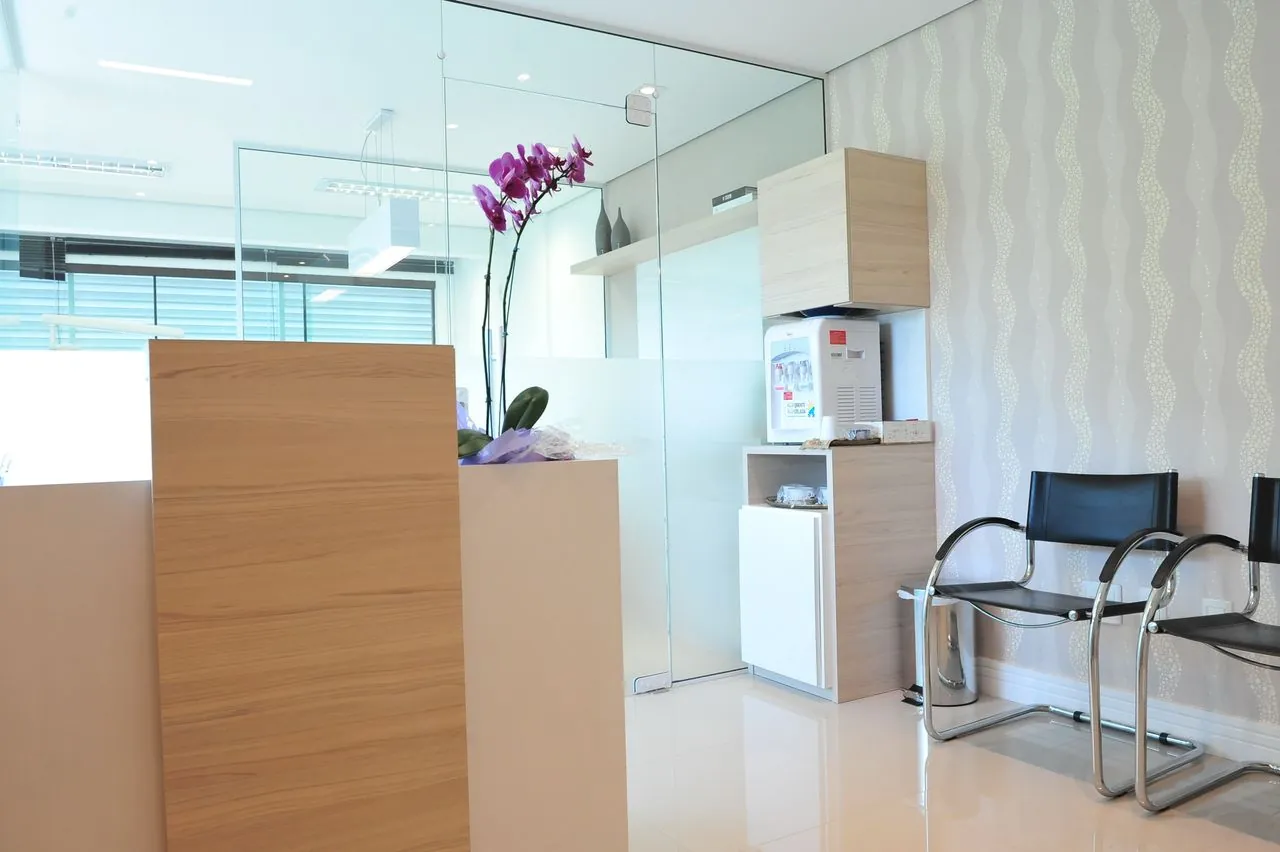
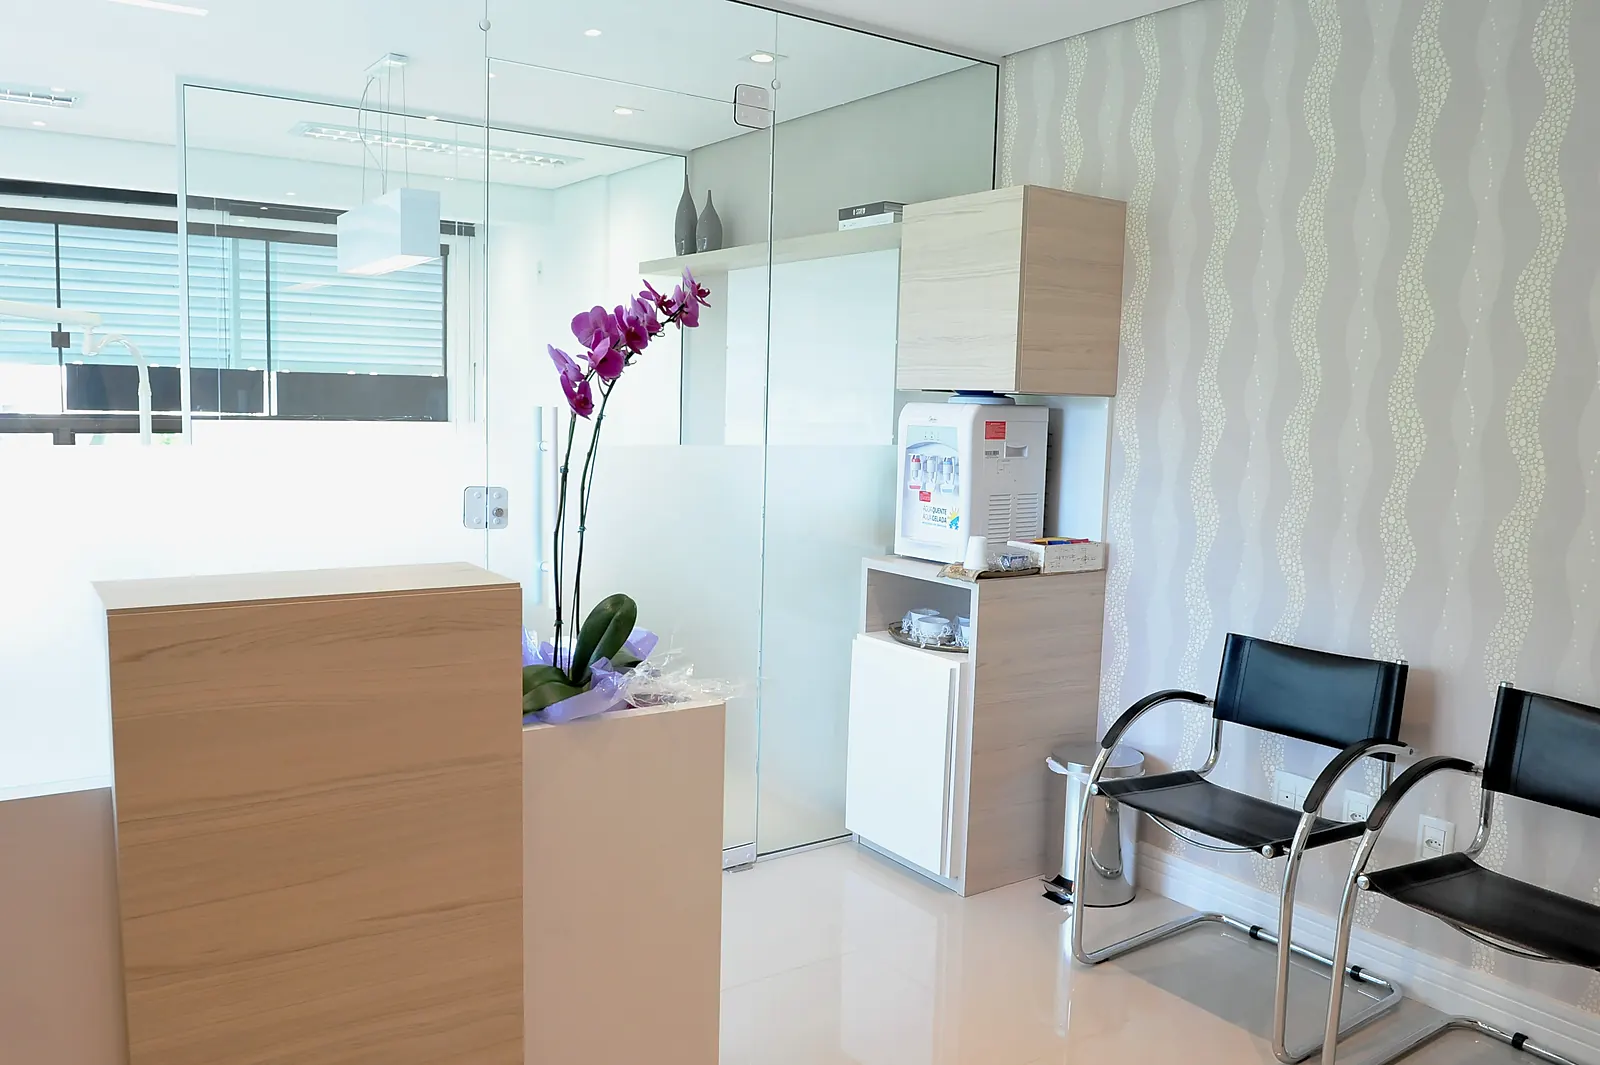
Fotos novas do consultório: seleção por nitidez, tratamento de tons e compressão WebP

diff --git a/index.html b/index.html
@@ -308,11 +308,11 @@ Recomendo totalmente!</blockquote><figcaption><span><b>Leandro Vieira</b> · 202
         <p class="lead" data-reveal style="--i:2">Ambiente silencioso, equipamentos atualizados e horário marcado com pontualidade, como os próprios pacientes destacam nas avaliações.</p>
       </div>
       <div class="galeria">
-        <figure data-reveal><img src="assets/img/consultorio-sala-1.webp" alt="Sala de atendimento com cadeira odontológica e janela ampla" width="1500" height="996" loading="lazy"><figcaption>Sala de atendimento</figcaption></figure>
-        <figure data-reveal style="--i:1"><img src="assets/img/consultorio-recepcao.webp" alt="Recepção com balcão de madeira clara e orquídea" width="1280" height="852" loading="lazy"><figcaption>Recepção</figcaption></figure>
-        <figure data-reveal style="--i:2"><img src="assets/img/consultorio-sala-2.webp" alt="Sala de atendimento com divisórias de vidro" width="1500" height="996" loading="lazy"><figcaption>Atendimento</figcaption></figure>
-        <figure data-reveal style="--i:3"><img src="assets/img/consultorio-escritorio.webp" alt="Sala de conversa e planejamento do tratamento" width="1500" height="1000" loading="lazy"><figcaption>Planejamento</figcaption></figure>
-        <figure data-reveal style="--i:4"><img src="assets/img/consultorio-sala-3.webp" alt="Vista geral do consultório" width="1500" height="1000" loading="lazy"><figcaption>Consultório</figcaption></figure>
+        <figure data-reveal><img src="assets/img/consultorio-sala-1.webp?v=2" alt="Sala de atendimento com cadeira odontológica, divisórias de vidro e janela para o verde" width="1600" height="1065" loading="lazy"><figcaption>Sala de atendimento</figcaption></figure>
+        <figure data-reveal style="--i:1"><img src="assets/img/consultorio-recepcao.webp?v=2" alt="Recepção com balcão de madeira clara, orquídea e cadeiras de espera" width="1600" height="1065" loading="lazy"><figcaption>Recepção</figcaption></figure>
+        <figure data-reveal style="--i:2"><img src="assets/img/consultorio-sala-2.webp?v=2" alt="Cadeira odontológica em frente à janela ampla" width="1600" height="1195" loading="lazy"><figcaption>Atendimento</figcaption></figure>
+        <figure data-reveal style="--i:3"><img src="assets/img/consultorio-escritorio.webp?v=2" alt="Sala de planejamento do tratamento, com vista para a sala de atendimento" width="1600" height="1065" loading="lazy"><figcaption>Planejamento</figcaption></figure>
+        <figure data-reveal style="--i:4"><img src="assets/img/consultorio-sala-3.webp?v=2" alt="Vista geral do consultório, da cadeira até a sala de planejamento" width="1600" height="1034" loading="lazy"><figcaption>Consultório</figcaption></figure>
         <div class="galeria__info" data-reveal style="--i:5">
           <div><strong>Rod. João Paulo, 695, sala 203</strong><p>João Paulo, Florianópolis/SC<br>Segunda a sexta, das 9h às 19h</p></div>
           <a class="link" href="https://www.google.com/maps?cid=12900152698628435875" target="_blank" rel="noopener">Como chegar<svg aria-hidden="true"><use href="assets/icons.svg#seta"/></svg></a>

diff --git a/contato.html b/contato.html
@@ -11,7 +11,7 @@
 <meta property="og:locale" content="pt_BR">
 <meta property="og:title" content="Contato e agendamento | Dra. Anita Nogiri">
 <meta property="og:description" content="WhatsApp, telefone, endereço e horários do consultório no João Paulo, Florianópolis.">
-<meta property="og:image" content="https://anitaodontologia.com.br/assets/img/consultorio-recepcao.webp">
+<meta property="og:image" content="https://anitaodontologia.com.br/assets/img/consultorio-recepcao.webp?v=2">
 <meta name="theme-color" content="#00565d">
 <link rel="icon" href="favicon.png" type="image/png">
 <link rel="preconnect" href="https://fonts.googleapis.com">
@@ -27,7 +27,7 @@
       {"@type":"ListItem","position":1,"name":"Início","item":"https://anitaodontologia.com.br/"},
       {"@type":"ListItem","position":2,"name":"Contato","item":"https://anitaodontologia.com.br/contato.html"}]},
     {"@type":"ContactPage","url":"https://anitaodontologia.com.br/contato.html","about":{"@id":"https://anitaodontologia.com.br/#consultorio"}},
-    {"@type":"Dentist","@id":"https://anitaodontologia.com.br/#consultorio","name":"Dra. Anita Nogiri Makowiecky · Odontologia Integrada","url":"https://anitaodontologia.com.br/","image":"https://anitaodontologia.com.br/assets/img/consultorio-recepcao.webp","telephone":"+55-48-3030-0038","email":"anita@anitaodontologia.com.br",
+    {"@type":"Dentist","@id":"https://anitaodontologia.com.br/#consultorio","name":"Dra. Anita Nogiri Makowiecky · Odontologia Integrada","url":"https://anitaodontologia.com.br/","image":"https://anitaodontologia.com.br/assets/img/consultorio-recepcao.webp?v=2","telephone":"+55-48-3030-0038","email":"anita@anitaodontologia.com.br",
      "address":{"@type":"PostalAddress","streetAddress":"Rodovia João Paulo, 695, sala 203","addressLocality":"Florianópolis","addressRegion":"SC","postalCode":"88030-300","addressCountry":"BR"},
      "geo":{"@type":"GeoCoordinates","latitude":-27.5665829,"longitude":-48.5158609},
      "hasMap":"https://www.google.com/maps?cid=12900152698628435875",

diff --git a/tools/imagens/tratar_consultorio.py b/tools/imagens/tratar_consultorio.py
@@ -1,0 +1,67 @@
+"""Trata e comprime as fotos do consultório para o site.
+
+Passos: orientação EXIF, recorte das bordas (onde a grande-angular mais estica),
+recuperação dos altos quase estourados, leve contraste nos médios, menos ciano nos
+vidros, redimensionamento, nitidez e WebP comprimido.
+
+Uso: python -I tools/imagens/tratar_consultorio.py <pasta_origem> <pasta_destino>
+O mapa FOTOS liga o arquivo original ao nome usado no site.
+"""
+import pathlib
+import sys
+
+import cv2
+import numpy as np
+from PIL import Image, ImageFilter, ImageOps
+
+FOTOS = {
+    "112": "consultorio-sala-1",
+    "103": "consultorio-recepcao",
+    "131": "consultorio-sala-2",
+    "144": "consultorio-escritorio",
+    "141": "consultorio-sala-3",
+    "105": "consultorio-recepcao-2",
+}
+LADO = 1600       # lado maior exportado
+CORTE = 0.05      # fração recortada de cada borda
+QUALIDADE = 78
+
+
+def curva():
+    """Curva de tons: segura os altos (sem estourar) e dá um contraste suave nos médios."""
+    x = np.arange(256, dtype=np.float32) / 255
+    s = x + 0.06 * np.sin(2 * np.pi * x) * (1 - x) * 1.6     # contraste em S suave
+    s = np.where(s > 0.82, 0.82 + (s - 0.82) * 0.82, s)       # comprime os altos
+    return np.clip(s * 255, 0, 255).astype(np.uint8)
+
+
+def menos_ciano(rgb):
+    hsv = cv2.cvtColor(rgb, cv2.COLOR_RGB2HSV).astype(np.float32)
+    h = hsv[..., 0]                                  # OpenCV: matiz 0..180
+    peso = np.clip(1 - np.abs(h - 92) / 18, 0, 1)    # ciano/turquesa em torno de 92
+    hsv[..., 1] *= 1 - 0.35 * peso
+    return cv2.cvtColor(hsv.astype(np.uint8), cv2.COLOR_HSV2RGB)
+
+
+def tratar(origem, destino):
+    im = ImageOps.exif_transpose(Image.open(origem)).convert("RGB")
+    w, h = im.size
+    im = im.crop((int(w * CORTE), int(h * CORTE), int(w * (1 - CORTE)), int(h * (1 - CORTE))))
+    im.thumbnail((LADO, LADO), Image.LANCZOS)
+    arr = np.array(im)
+    arr = cv2.LUT(arr, curva())
+    arr = menos_ciano(arr)
+    im = Image.fromarray(arr).filter(ImageFilter.UnsharpMask(radius=1.2, percent=55, threshold=2))
+    im.save(destino, "WEBP", quality=QUALIDADE, method=6)
+    return im.size, destino.stat().st_size
+
+
+def main():
+    org, dst = pathlib.Path(sys.argv[1]), pathlib.Path(sys.argv[2])
+    for k, nome in FOTOS.items():
+        tam, peso = tratar(org / f"{k}.jpg", dst / f"{nome}.webp")
+        print(f"{k} -> {nome}.webp  {tam[0]}x{tam[1]}  {peso // 1024} KB")
+
+
+if __name__ == "__main__":
+    main()

diff --git a/CLAUDE.md b/CLAUDE.md
@@ -43,6 +43,7 @@ Projeto da Freela In Home. Responder sempre em pt-BR.
 - Blog: posts em `conteudo/blog/posts.json` + `conteudo/blog/<slug>.html` → `python tools/blog.py` (gera blog.html, posts, sitemap.xml e roda partials). Capas IA: `python -I tools/imagens/gerar.py <saida.webp> <w> <h> "<prompt>"` (Gemini, com crédito desde 05/11)
 - REGRA Google Ads saúde (igual ao site do Dr. Márcio): as palavras "antes" e "depois" são PROIBIDAS em todo o conteúdo publicado (texto, títulos, alt, aria, meta, JSON-LD, comentários, classes, nomes de arquivo), inclusive em uso temporal. Usar "primeiro", "em seguida", "ao final", "prévio". Casos: "registro fotográfico 1/2", "comparar os dois registros"
 - Casos reais (16/11): `assets/img/casos/caso-NN-a.webp` / `-b.webp` (8 casos), alinhados por `tools/imagens/alinhar_casos.py`. Fotos originais do Drive em `../fotos-drive-2026-11-16/` (fora do repo). Componente `.registro` (comparador de arrastar) em resultados.html e na home
+- Fotos do consultório (17/11): 24 originais em `../fotos-consultorio-2026-11-17/` (fora do repo, com backup das antigas em `backup-site/`). Escolhidas por nitidez/exposição: 112 sala-1, 103 recepcao, 131 sala-2, 144 escritorio, 141 sala-3, 105 recepcao-2 (reserva). Tratamento + compressão: `python -I tools/imagens/tratar_consultorio.py <origem> assets/img` (WebP 1600px, 70 a 150 KB)
 - Fotos da Dra. (16/11): dra-anita-blazer (topo Sobre), -lupas (Sobre consultório), -planejamento (topo Resultados), -sorriso (Links e autor do blog), -mesa (reserva)
 - SEO/GEO: cada página com title/description/canonical/OG, JSON-LD (Dentist, Person, FAQPage, BreadcrumbList, BlogPosting), caixa `.resposta` (resposta direta) e `llms.txt` na raiz
 - Logo: `assets/logo/logo.svg` (vertical), `logo-horizontal.svg` (menu), `dente.svg` (elemento gráfico), versões brancas. Extraídos do .ai via PyMuPDF
